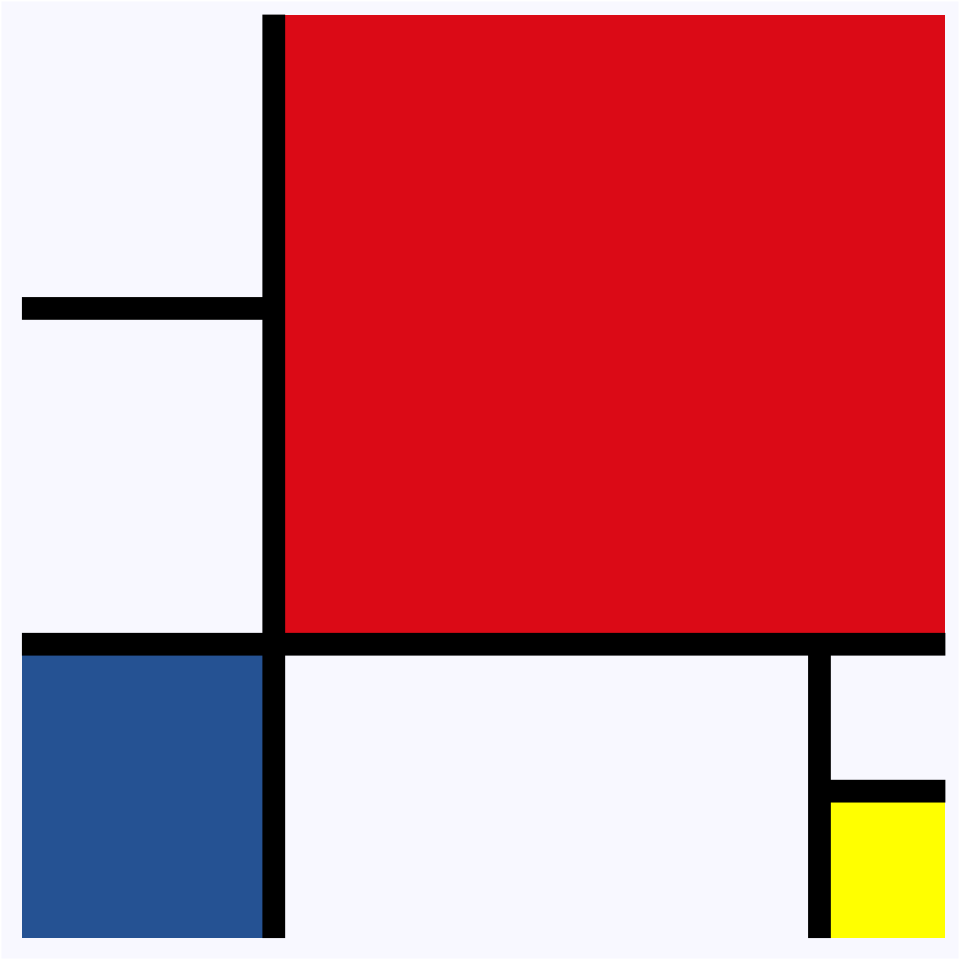
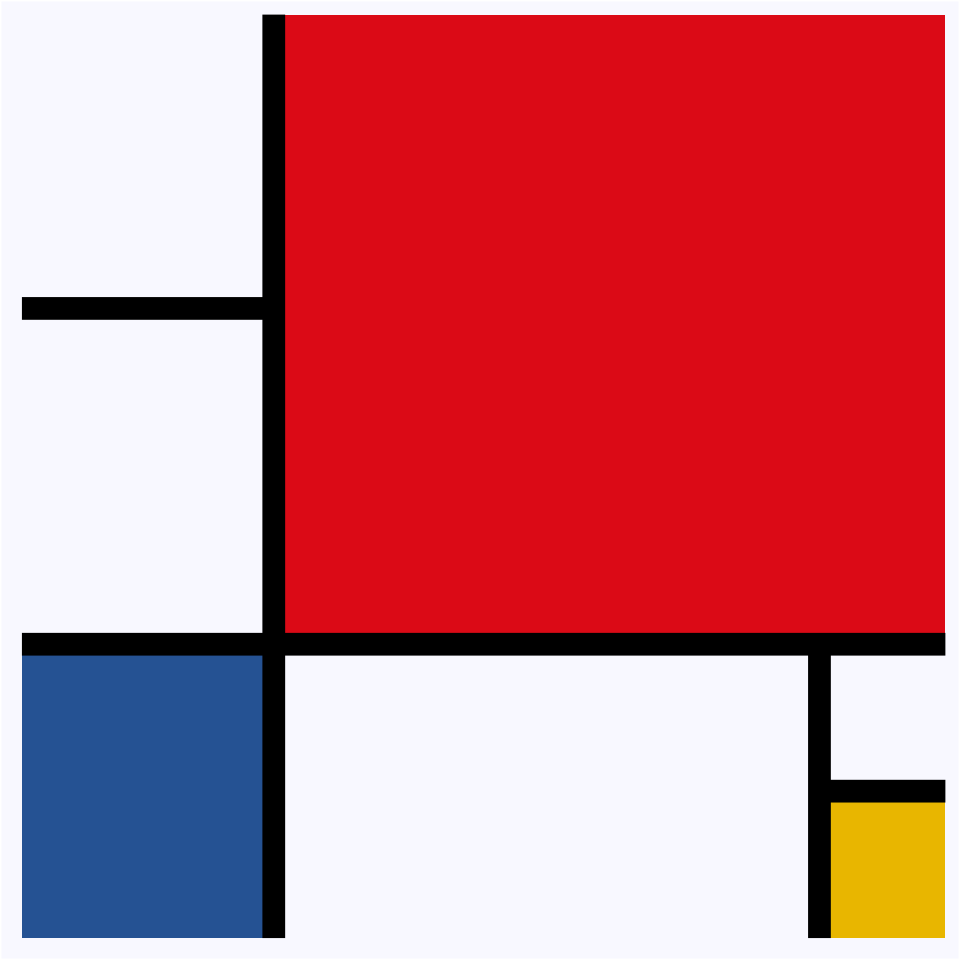
fixed colors on paris and recreated base layers

Changed region(s): [[0.8438, 0.8125, 1.0, 1.0]]

diff --git a/sophie.html b/sophie.html
@@ -145,7 +145,7 @@ pre > code.sourceCode > span > a:first-child::before { text-decoration: underlin
 <span id="cb5-35"><a href="#cb5-35" aria-hidden="true" tabindex="-1"></a>  <span class="fu">geom_segment</span>(<span class="at">data =</span> half_lines_vertical, <span class="fu">aes</span>(<span class="at">x =</span> x, <span class="at">y =</span> y_start, <span class="at">xend =</span> x, </span>
 <span id="cb5-36"><a href="#cb5-36" aria-hidden="true" tabindex="-1"></a>                                               <span class="at">yend =</span> y_end), <span class="at">linewidth =</span> <span class="dv">4</span>) <span class="sc">+</span></span>
 <span id="cb5-37"><a href="#cb5-37" aria-hidden="true" tabindex="-1"></a>  <span class="fu">scale_fill_manual</span>(<span class="at">values =</span> <span class="fu">c</span>(<span class="st">"blue"</span> <span class="ot">=</span> <span class="st">"#255293"</span>, <span class="st">"red"</span> <span class="ot">=</span> <span class="st">"#db0a16"</span>, </span>
-<span id="cb5-38"><a href="#cb5-38" aria-hidden="true" tabindex="-1"></a>                               <span class="st">"yellow"</span> <span class="ot">=</span> <span class="st">"yellow"</span>)) <span class="sc">+</span></span>
+<span id="cb5-38"><a href="#cb5-38" aria-hidden="true" tabindex="-1"></a>                               <span class="st">"yellow"</span> <span class="ot">=</span> <span class="st">"#E8B600"</span>)) <span class="sc">+</span></span>
 <span id="cb5-39"><a href="#cb5-39" aria-hidden="true" tabindex="-1"></a>  <span class="fu">my_theme</span>()</span></code><button title="Copy to Clipboard" class="code-copy-button"><i class="bi"></i></button></pre></div>
 <div class="cell-output-display">
 <div>
